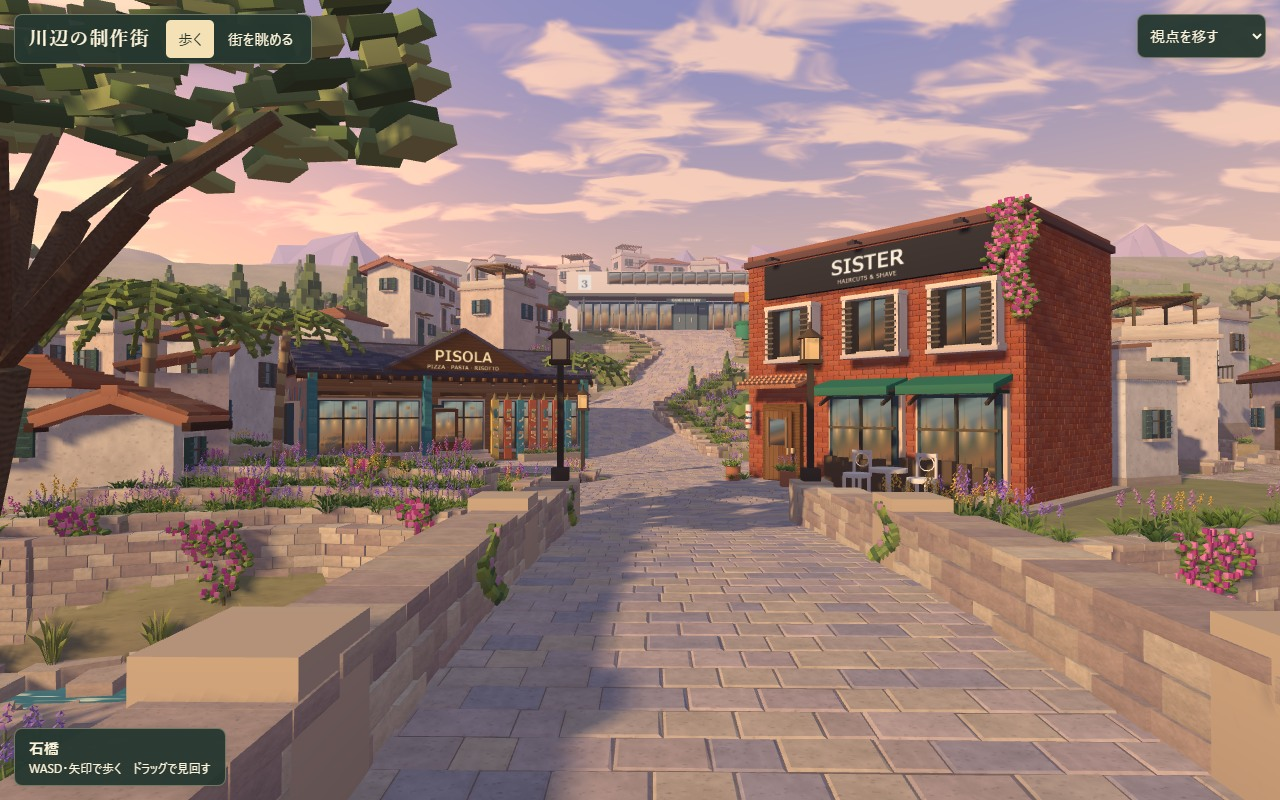
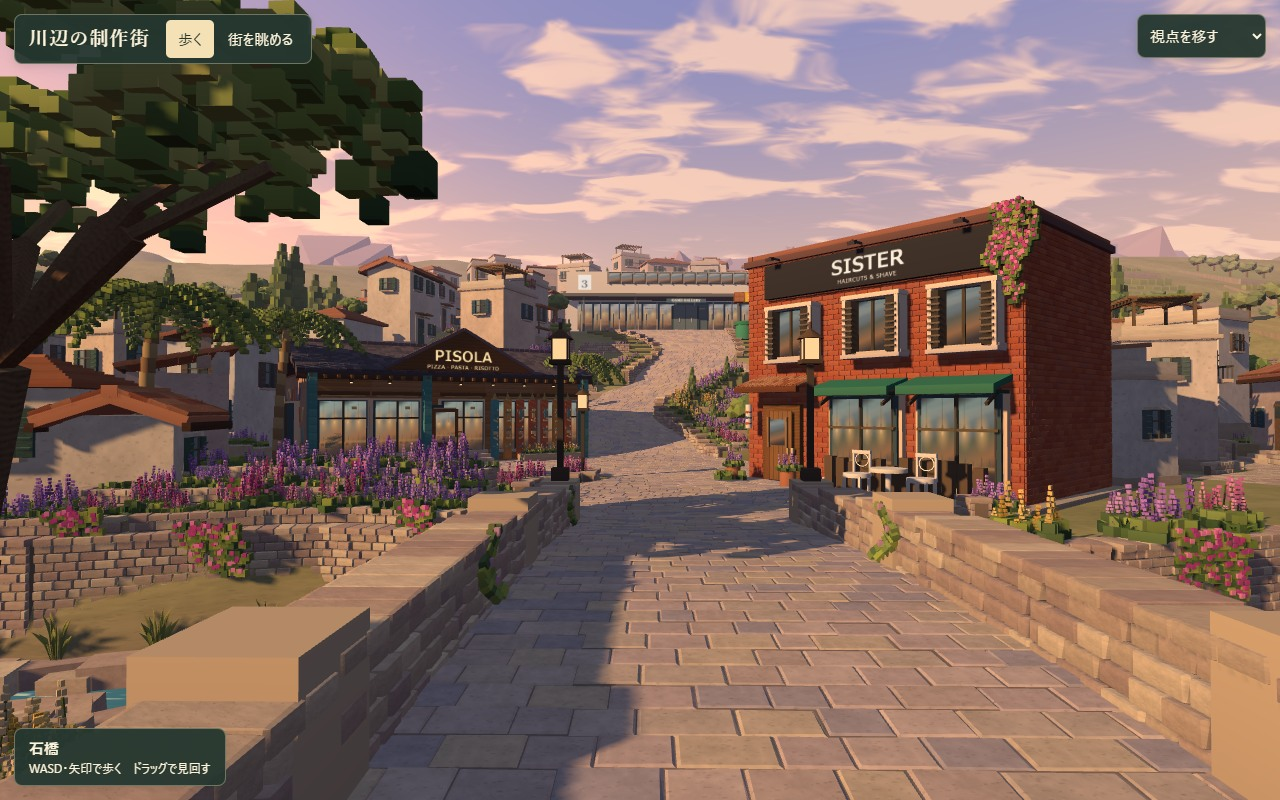
docs(prototype): compare evening detail and record render performance

diff --git a/prototype/review/compare.html b/prototype/review/compare.html
@@ -1,7 +1,7 @@
 <!doctype html>
 <html lang="ja">
 <meta charset="utf-8"><meta name="viewport" content="width=device-width,initial-scale=1">
-<title>石橋から見た街の変更前後 ｜ 川辺の制作街</title>
+<title>石橋から店先までの造形と夕日 ｜ 川辺の制作街</title>
 <style>
   * { box-sizing: border-box }
   body { max-width: 1500px; margin: auto; padding: 20px; background: #f8f4ec; color: #292d28; font: 1rem/1.5 system-ui,sans-serif }
@@ -21,7 +21,7 @@
   [hidden] { display: none }
   @media(max-width:620px){body{padding:12px}.desktop .pair{grid-template-columns:1fr}.pair{gap:8px}}
 </style>
-<header><h1>石橋から見た街の変更前後</h1><a href="walk.html">街を開く →</a></header>
+<header><h1>石橋から店先までの造形と夕日</h1><a href="walk.html">街を開く →</a></header>
 <div class="options" role="group" aria-label="撮影サイズ">
   <label><input type="radio" name="size" value="desktop" checked> PC · 1280 × 800</label>
   <label><input type="radio" name="size" value="mobile"> スマホ · 375 × 812</label>
@@ -29,12 +29,12 @@
 <section class="desktop" data-size="desktop" aria-label="PCの比較">
   <h2>石橋からの歩行視点</h2>
   <div class="pair">
-    <figure><figcaption>変更前</figcaption><a href="before-bridge-1280.jpg"><img src="before-bridge-1280.jpg" alt="PC・変更前の石橋からの歩行視点"></a></figure>
+    <figure><figcaption>変更前 · 408ebaf</figcaption><a href="before-bridge-1280.jpg"><img src="before-bridge-1280.jpg" alt="PC・変更前の石橋からの歩行視点"></a></figure>
     <figure><figcaption>変更後</figcaption><a href="bridge-1280.jpg"><img src="bridge-1280.jpg" alt="PC・変更後の石橋からの歩行視点"></a></figure>
   </div>
   <h2>街区の俯瞰</h2>
   <div class="pair">
-    <figure><figcaption>変更前</figcaption><a href="before-overview-1280.jpg"><img src="before-overview-1280.jpg" alt="PC・変更前の街区の俯瞰"></a></figure>
+    <figure><figcaption>変更前 · 408ebaf</figcaption><a href="before-overview-1280.jpg"><img src="before-overview-1280.jpg" alt="PC・変更前の街区の俯瞰"></a></figure>
     <figure><figcaption>変更後</figcaption><a href="overview-1280.jpg"><img src="overview-1280.jpg" alt="PC・変更後の街区の俯瞰"></a></figure>
   </div>
   <details><summary>川沿いの住宅路地から見る</summary><img src="quay-1280.jpg" alt="玄関の石段と小庭の間を通る路地"></details>
@@ -42,17 +42,21 @@
 <section class="mobile" data-size="mobile" aria-label="スマホ幅の比較" hidden>
   <h2>石橋からの歩行視点</h2>
   <div class="pair">
-    <figure><figcaption>変更前</figcaption><a href="before-bridge-375.jpg"><img src="before-bridge-375.jpg" alt="スマホ幅・変更前の石橋からの歩行視点"></a></figure>
+    <figure><figcaption>変更前 · 408ebaf</figcaption><a href="before-bridge-375.jpg"><img src="before-bridge-375.jpg" alt="スマホ幅・変更前の石橋からの歩行視点"></a></figure>
     <figure><figcaption>変更後</figcaption><a href="bridge-375.jpg"><img src="bridge-375.jpg" alt="スマホ幅・変更後の石橋からの歩行視点"></a></figure>
   </div>
   <h2>街区の俯瞰</h2>
   <div class="pair">
-    <figure><figcaption>変更前</figcaption><a href="before-overview-375.jpg"><img src="before-overview-375.jpg" alt="スマホ幅・変更前の街区の俯瞰"></a></figure>
+    <figure><figcaption>変更前 · 408ebaf</figcaption><a href="before-overview-375.jpg"><img src="before-overview-375.jpg" alt="スマホ幅・変更前の街区の俯瞰"></a></figure>
     <figure><figcaption>変更後</figcaption><a href="overview-375.jpg"><img src="overview-375.jpg" alt="スマホ幅・変更後の街区の俯瞰"></a></figure>
   </div>
   <details><summary>川沿いの住宅路地から見る</summary><img src="quay-375.jpg" alt="玄関の石段と小庭の間を通る路地"></details>
 </section>
 <details><summary>石橋の途中から左岸の段花壇を見る</summary><a href="quay-garden.jpg"><img src="quay-garden.jpg" width="1280" height="800" alt="川に沿った三段の花壇。その奥に住宅の路地とPISOLAの大窓が見える"></a></details>
+<details><summary>店先の瓦・軒下を近くから見る</summary>
+<h2>PISOLA</h2><div class="pair"><figure><figcaption>変更前</figcaption><img loading="lazy" src="before-pisola-1280.jpg" alt="変更前のPISOLAの店先"></figure><figure><figcaption>変更後</figcaption><img loading="lazy" src="pisola-1280.jpg" alt="変更後のPISOLAの屋根と軒下"></figure></div>
+<h2>SISTER</h2><div class="pair"><figure><figcaption>変更前</figcaption><img loading="lazy" src="before-sister-1280.jpg" alt="変更前のSISTERの店先"></figure><figure><figcaption>変更後</figcaption><img loading="lazy" src="sister-1280.jpg" alt="変更後のSISTERの屋根と軒下"></figure></div>
+</details>
 <script>
   document.querySelector('.options').addEventListener('change', event => {
     for (const section of document.querySelectorAll('[data-size]')) section.hidden = section.dataset.size !== event.target.value;

diff --git a/prototype/README.md b/prototype/README.md
@@ -17,7 +17,11 @@
 
 左岸の民家は住宅路地側に寄せて軒を下げた。川岸から高さ0.29m、0.58m、0.89mの順に石積みの花壇が続く。SISTERを少し奥へ移して正面を石橋へ向け、坂の内側にあった家を住宅地に移した。坂は中央で左に振れてから右に登り、標高8.10mの展示館前庭に着く。
 
-比較元は前回レビュー版の 8929981。石橋の歩行カメラは座標 (-0.65, 2.25334, 22)、yaw 0.015、pitch 0.012 ラジアン。俯瞰の注視点は (0, 1, -4)、方位角 −0.45、仰角 0.47 ラジアン。各モードで、変更前後のカメラのワールド行列・投影行列・DPRが一致した。
+今回の造形では、オリーブの樹冠とヤシの葉を小さな厚い角形で組み、葉の密度と空が抜ける隙間を変えた。花は紫・桃・黄の群れごとに背丈と間隔を変え、石垣から垂れる蔓を重ねている。近景の石積みには欠けた角、深い目地、石ごとの張り出しを付け、石畳も影を落とす立体にした。PISOLAの低い濃色屋根は細かな重ね葺き、SISTERの入口の小屋根は厚みのある角張った丸瓦で描いた。夕日を暖め、軒下と葉の根元の暗さを強めた。
+
+3棟の形・外壁・開口は元の店舗画像に沿っている。理想画像の完全な再現には至っておらず、樹形、花の密度、背景住宅や細部の造形に差が残っている。
+
+比較元は前回レビュー版の 408ebaf。石橋の歩行カメラは座標 (-0.65, 2.25334, 22)、yaw 0.015、pitch 0.012 ラジアン。俯瞰の注視点は (0, 1, -4)、方位角 −0.45、仰角 0.47 ラジアン。各モードで、変更前後のカメラのワールド行列・投影行列・DPRが一致した。
 
 | 撮影サイズ | 歩行の縦画角 | 俯瞰の縦画角 | DPR |
 | --- | --- | --- | --- |
@@ -40,6 +44,15 @@ Windows版Chrome（Intel Iris Xe・D3D11）で単独HTMLを開いた。1280×800
 
 両サイズで、石橋から川沿いの路地を曲がり、民家の玄関の石段まで歩いた。これとは別に、歩行と同じ通行判定で16cm間隔の格子を石橋から探索し、57戸すべての玄関前へつながることを確認した。俯瞰の回転・移動・ズーム後には歩行位置、向き、画角が復帰した。
 
-歩行中と俯瞰回転中に各90フレームを測定し、両サイズ・両モードでフレーム間隔の中央値は16.7msだった。スマホ幅の確認はPC上のタッチエミュレーション。スマートフォン実機とSafariの描画速度は未計測。
+歩行中と俯瞰回転中に各90フレームを、他のブラウザー検証と同時実行せずに測定した。全条件でフレーム間隔の中央値は16.7msだった。95パーセンタイルは次のとおり。
+
+| 撮影サイズ | 歩行 | 俯瞰回転 |
+| --- | --- | --- |
+| 1280×800 | 16.8ms | 16.9ms |
+| 375×812 | 16.9ms | 16.8ms |
+
+石橋の初期位置で描画される三角形数は、PCで約94万から201万、375px幅で約86万から192万へ増えた。俯瞰の初期位置ではPCが約98万から210万、375px幅が約91万から201万。遠景の花は花穂を少ない立体で表し、石の欠けは店舗付近と橋に限っている。影は静止した街の初回描画時に計算し、PCは4096px、375px幅は2048pxのシャドウマップを使う。
+
+スマホ幅の確認はPC上のタッチエミュレーション。スマートフォン実機とSafariの描画速度は未計測。
 
 `index.html` が通常の入口。`python prototype/review/build_walk.py` で同じソースから単独HTMLを再生成できる。Three.js r160（0.160.1、MIT）を同梱しており、ローカルでWebGLが使えるブラウザーから開ける。
